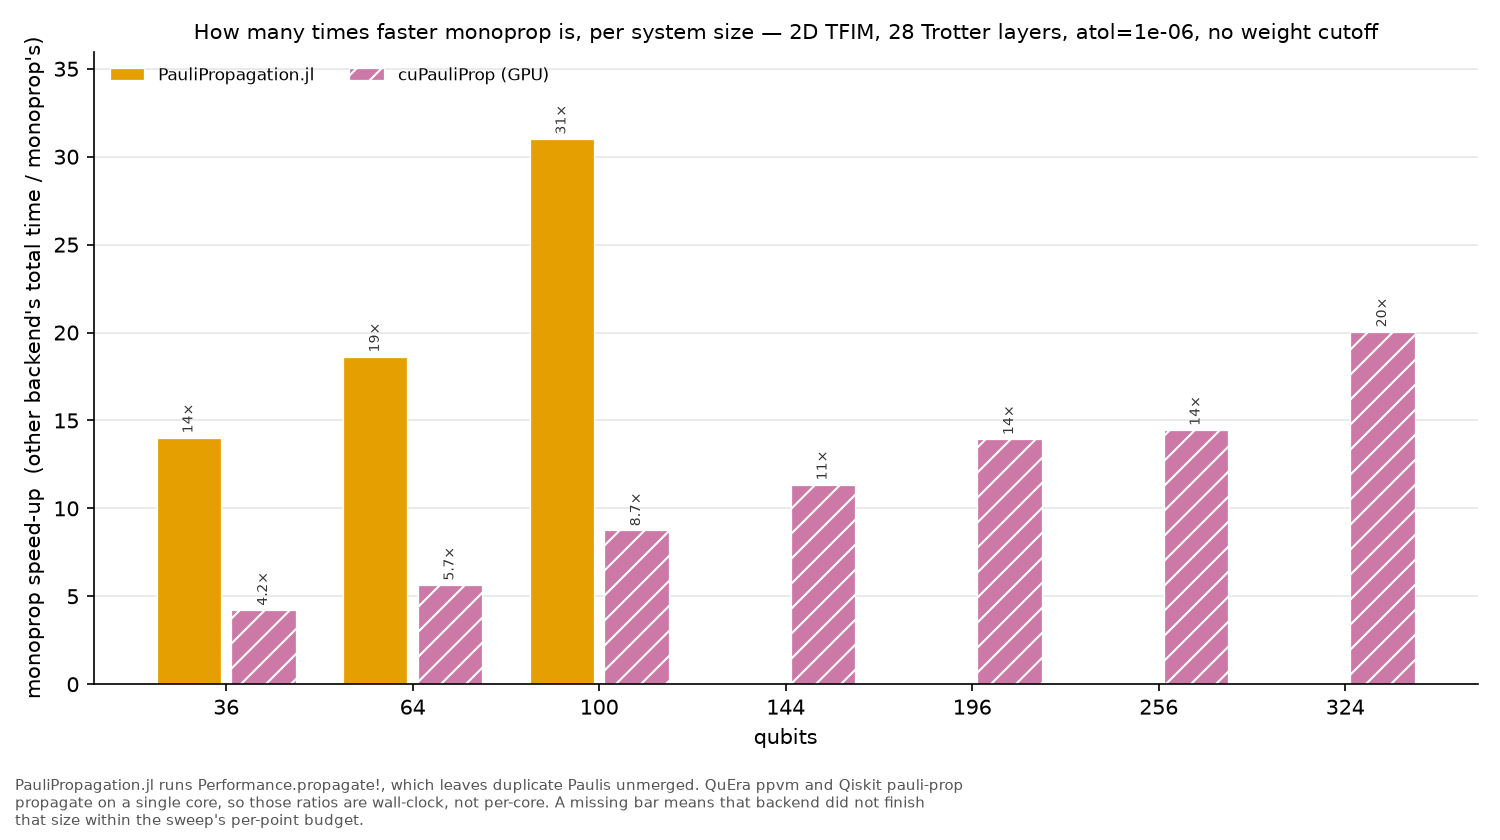
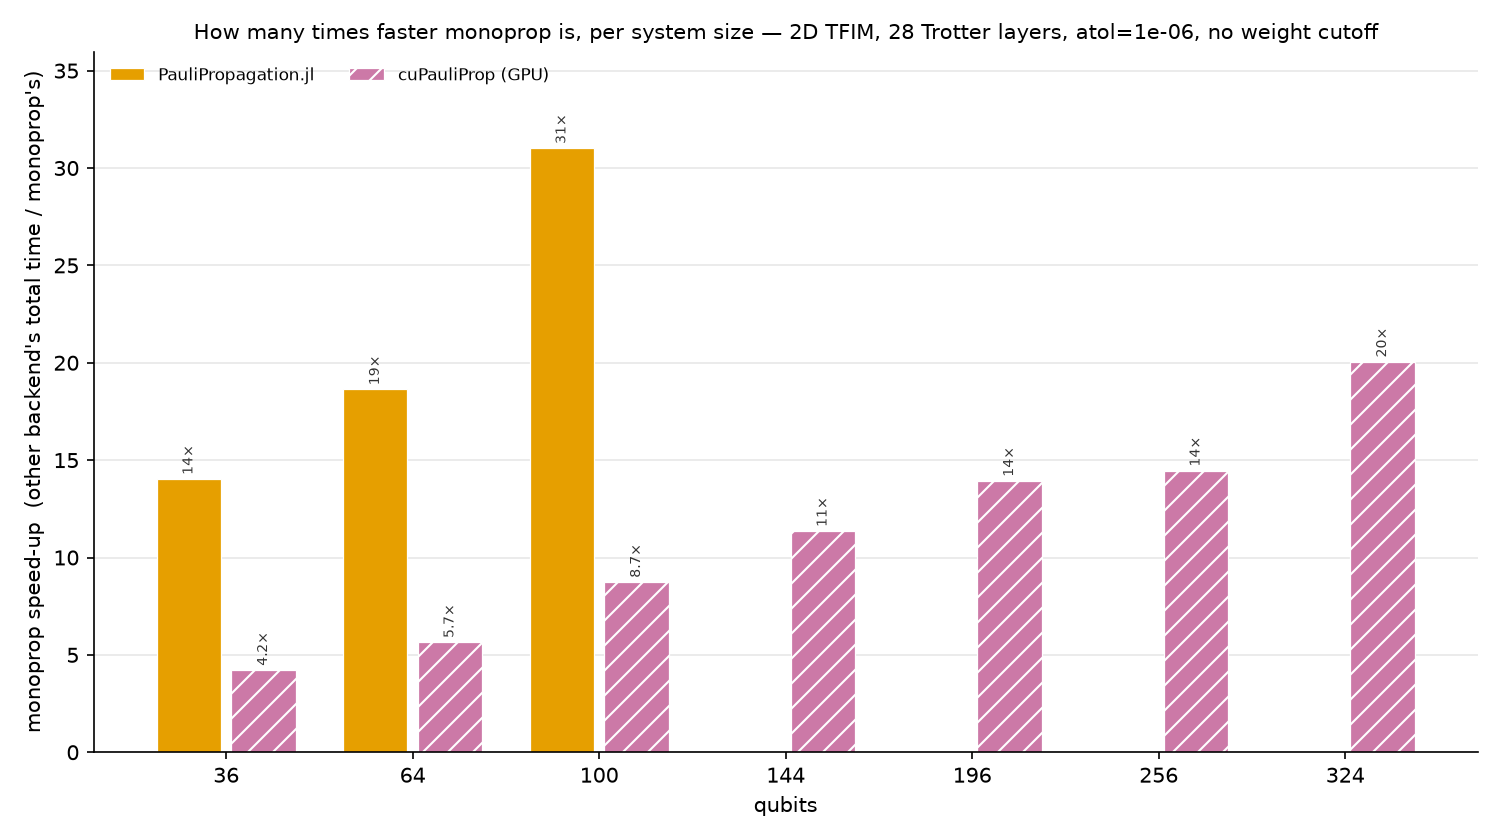
fix: several corrections to existing plots.
Addressing several reviewer's comments.

diff --git a/packages/bench-third-party/pauli_prop/plot_speedup.py b/packages/bench-third-party/pauli_prop/plot_speedup.py
@@ -28,14 +28,12 @@ point of the chart.
 from __future__ import annotations
 
 import argparse
-import textwrap
 from pathlib import Path
 
 import matplotlib
 
 matplotlib.use("Agg")
 import matplotlib.pyplot as plt  # noqa: E402
-
 from plot_scaling import (  # noqa: E402
     COLORS,
     layers,
@@ -59,17 +57,6 @@ CHALLENGERS = [
 # colour alone would not separate them; the hatch also carries the honest distinction
 # that this bar is a different device class.
 HATCH = {"cuPauliProp (GPU)": "//"}
-
-# Properties of the comparison itself, not of the run that produced a particular file, so they
-# are the default rather than something the caller has to remember to pass. A ratio against a
-# single-core backend means something different from one against a threaded backend, and an
-# absent bar has to be readable as "did not finish" rather than "not measured".
-DEFAULT_FOOTNOTE = (
-    "PauliPropagation.jl runs Performance.propagate!, which leaves duplicate Paulis unmerged. "
-    "QuEra ppvm and Qiskit pauli-prop propagate on a single core, so those ratios are "
-    "wall-clock, not per-core. A missing bar means that backend did not finish that size "
-    "within the sweep's per-point budget."
-)
 
 
 def speedups(records: list[dict]) -> tuple[list[int], dict[str, dict[int, float]]]:
@@ -165,13 +152,6 @@ def main() -> None:
     parser = argparse.ArgumentParser(description=__doc__)
     parser.add_argument("results", type=Path, nargs="+", help="scaling JSONL file(s)")
     parser.add_argument("--output-dir", type=Path, default=Path("."))
-    parser.add_argument(
-        "--footnote",
-        default=DEFAULT_FOOTNOTE,
-        help="Small print under the axes; pass an empty string to drop it. Defaults to the "
-        "caveats that hold for any run of this benchmark. What a particular run used — host, "
-        "thread caps, library versions — is provenance and goes in the .md sidecar instead.",
-    )
     args = parser.parse_args()
 
     records = load(args.results)
@@ -187,16 +167,7 @@ def main() -> None:
         f"{layers(records)}, {truncation(records)}",
         fontsize="medium",
     )
-    if args.footnote:
-        # Wrapped, and the axes shrunk by however many lines that came to: a footnote
-        # that runs off the canvas is worse than no footnote, because the caveat it
-        # carries is exactly the part a reader must not miss.
-        wrapped = textwrap.fill(args.footnote, width=125)
-        lines = wrapped.count("\n") + 1
-        fig.text(0.01, 0.012, wrapped, fontsize=7, color="#555555", va="bottom")
-        fig.tight_layout(rect=(0, 0.015 + 0.022 * lines, 1, 1))
-    else:
-        fig.tight_layout()
+    fig.tight_layout()
 
     out = args.output_dir / "pauli_speedup.png"
     fig.savefig(out, dpi=150)

diff --git a/packages/bench-third-party/majorana_prop/plot_results.py b/packages/bench-third-party/majorana_prop/plot_results.py
@@ -28,29 +28,10 @@ def plot_metric(
     step_range: list[int],
     metric_dict: dict[str, list[float]],
     ylabel: str,
-    secondary_dict: dict[str, list[float]] | None = None,
 ) -> None:
-    """Plot ``metric_dict[source]`` vs. ``step_range`` for each source onto ``ax``.
-
-    ``secondary_dict``, where given, is drawn as a faint unlabeled line reusing each source's own
-    color and linestyle (only reduced alpha, no marker, distinguishes it) — a different
-    measurement of the same source, not a new series.
-    """
-    colors_by_source = {}
+    """Plot ``metric_dict[source]`` vs. ``step_range`` for each source onto ``ax``."""
     for source, values in metric_dict.items():
-        (line,) = ax.plot(step_range, values, STYLES.get(source, "-o"), label=source)
-        colors_by_source[source] = line.get_color()
-    if secondary_dict:
-        for source, values in secondary_dict.items():
-            linestyle = "--" if STYLES.get(source, "-o").startswith("--") else "-"
-            ax.plot(
-                step_range,
-                values,
-                linestyle=linestyle,
-                color=colors_by_source.get(source),
-                alpha=0.4,
-                linewidth=1,
-            )
+        ax.plot(step_range, values, STYLES.get(source, "-o"), label=source)
     ax.set_xlabel("layers")
     ax.set_ylabel(ylabel)
     ax.legend(fontsize="small")
@@ -125,13 +106,11 @@ def main() -> None:
     plot_metric(axes[0, 1], step_range, data["num_terms"], "number of terms")
     axes[0, 1].set_title("Number of terms vs layers")
 
-    native_memory_dict = data.get("native_memory_MB", {})
     plot_metric(
         axes[1, 0],
         step_range,
         data["memory_MB"],
         "memory (MB)",
-        secondary_dict=native_memory_dict,
     )
     axes[1, 0].set_title("Memory vs layers")
 
@@ -139,15 +118,6 @@ def main() -> None:
     axes[1, 1].set_title("Expectation value vs layers")
 
     fig.tight_layout()
-    if native_memory_dict:
-        fig.text(
-            0.5,
-            0.005,
-            "Faint lines: each engine's own native memory accounting (reference only, not the plotted peak)",
-            ha="center",
-            fontsize=8,
-            color="gray",
-        )
     fig.savefig(args.output_dir / "majorana_results.png", bbox_inches="tight")
 
     plot_runtime_figure(

diff --git a/packages/bench-third-party/pauli_prop/plot_results.py b/packages/bench-third-party/pauli_prop/plot_results.py
@@ -35,7 +35,6 @@ with open(Path(__file__).parent / "results.json") as file:
 step_range = data["step_range"]
 runtime_dict = data["runtime"]
 memory_dict = data["memory"]
-native_memory_dict = data.get("native_memory", {})
 expvals_dict = data["expvals"]
 
 
@@ -70,19 +69,7 @@ _style_axes(ax1, "Time per step [s]")
 for label, memory in memory_dict.items():
     steps, values = _filter_from_min_step(step_range, memory)
     ax2.plot(steps, values, color=colors[label], label=label, marker="o", markersize=4)
-for label, native_memory in native_memory_dict.items():
-    steps, values = _filter_from_min_step(step_range, native_memory)
-    ax2.plot(steps, values, color=colors[label], linestyle="--", alpha=0.5)
 _style_axes(ax2, "Memory per step [MB]")
 
 fig.tight_layout()
-if native_memory_dict:
-    fig.text(
-        0.5,
-        -0.03,
-        "Dashed: each engine's own native memory accounting (reference only, not the plotted peak)",
-        ha="center",
-        fontsize=8,
-        color="gray",
-    )
 fig.savefig(Path(__file__).parent / "pauli_results.png", dpi=150, bbox_inches="tight")
